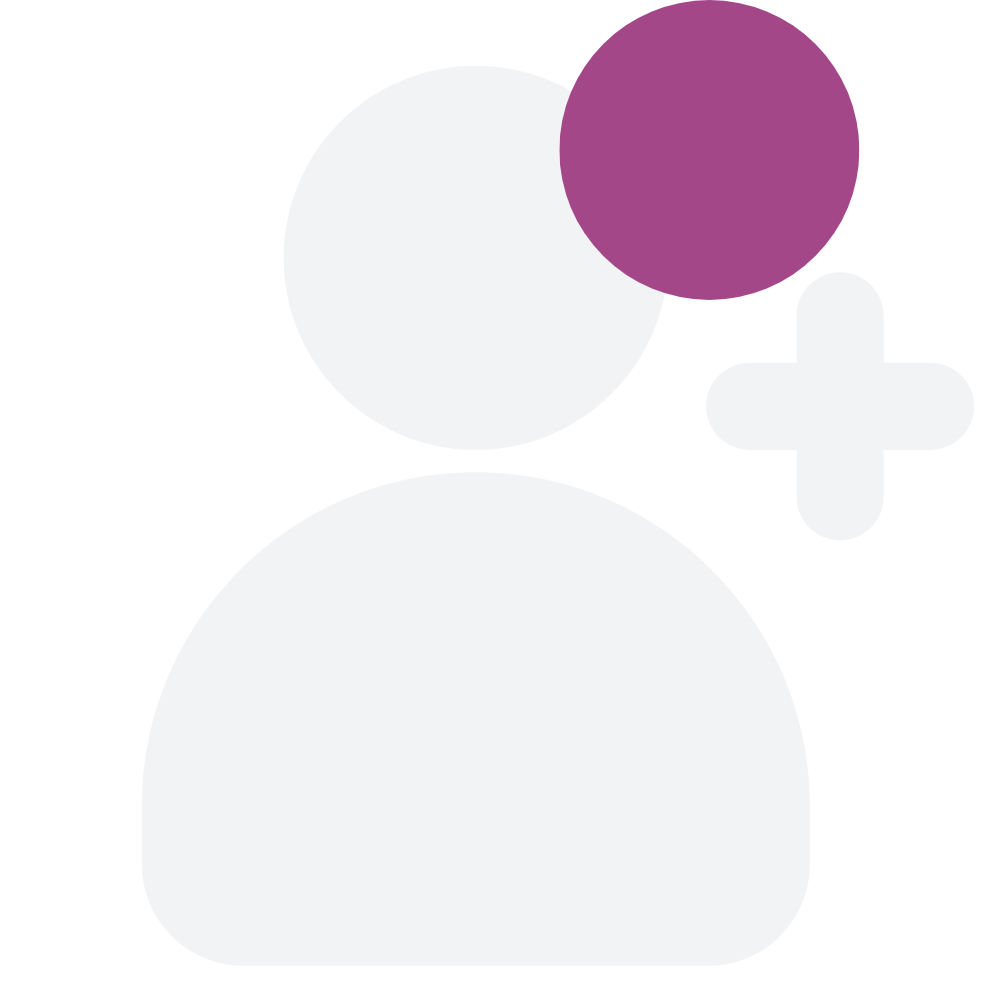
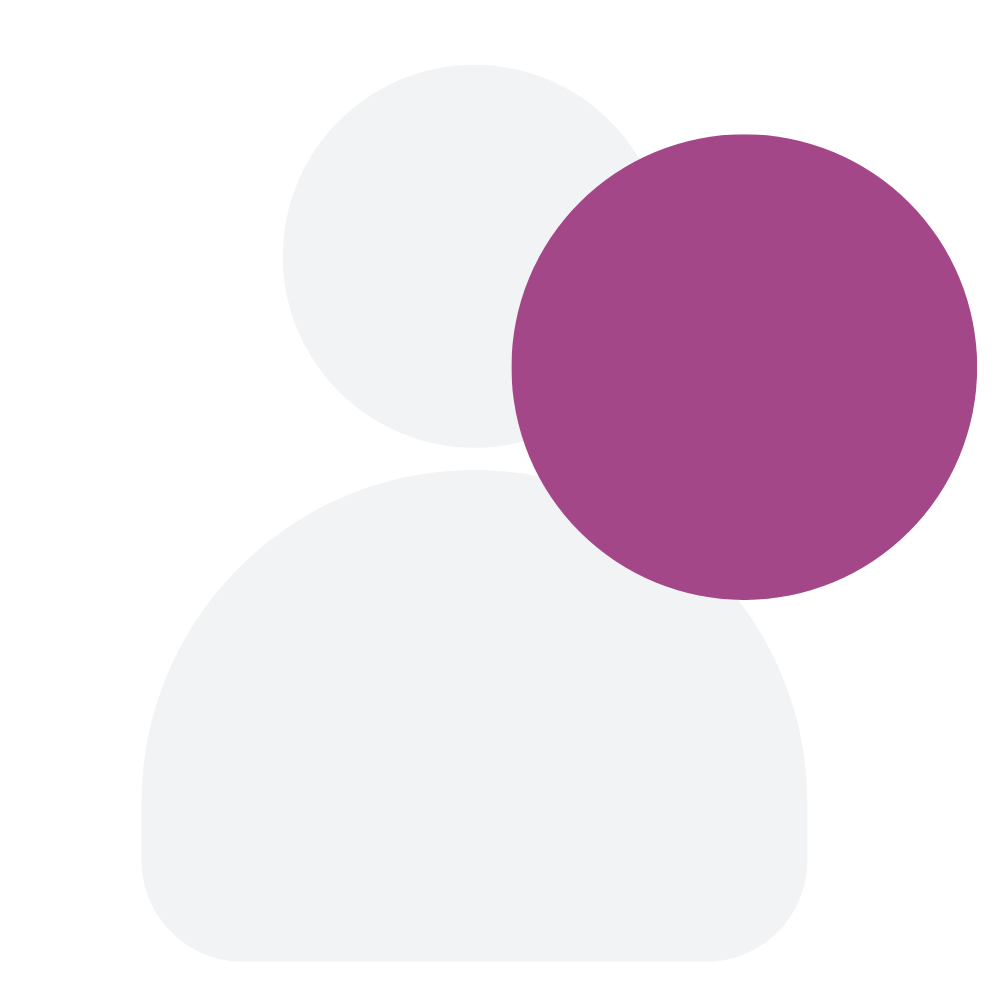
Added friend request notifications

Changed region(s): [[0.496, 0.0, 0.992, 0.62]]

diff --git a/Chatty-macOS/src/Pages/styles.css b/Chatty-macOS/src/Pages/styles.css
@@ -4,12 +4,10 @@
 }
 
 ::-webkit-scrollbar {
-  width: 21px;
-  margin: 5rem;
+  width: 0.3rem;
 }
 /* Style the scrollbar thumb */
 ::-webkit-scrollbar-thumb {
-  background-color: #ccc;
   border-radius: 5px;
 }
 
@@ -57,7 +55,7 @@ html, body{
   margin-top: 0.5rem;
   text-align: center;
   display: grid;
-  grid-template-columns: 30% 70%;
+  grid-template-columns: 29.5% 68.5%;
   grid-template-rows: 87%;
   column-gap: 1rem;
   overflow-y: hidden;
@@ -112,6 +110,13 @@ html, body{
 }
 
 #friend-button-image{
+  width: 1.5rem;
+  background-color: transparent;
+  height: 1.5rem;
+  border: none;
+}
+
+#friend-button-image-new{
   width: 1.5rem;
   background-color: transparent;
   height: 1.5rem;
@@ -226,6 +231,8 @@ html, body{
   cursor: text;
 }
 
+
+
 #input-wrapper {
   width: 100%;
   border-radius: 6px;
@@ -234,10 +241,6 @@ html, body{
   text-align: start;
   position: absolute;
   bottom: 1rem;
-  background-image: url('../Images/send-message.png');
-  background-position: center right 0.5rem;
-  background-size: 22px;
-  background-repeat: no-repeat;
   font-family: CustomRegular, sans-serif;
   font-size: 18px;
   font-weight: 600;
@@ -246,8 +249,11 @@ html, body{
   outline: none;
   z-index: 1;
   -webkit-app-region: no-drag;
+  display: grid;
+  grid-template-columns: 87% 7% 10%;
   margin-right: 10px;
   margin-top: 1rem;
+  align-items: center;
   border-style: inset;
 }
 
@@ -378,11 +384,11 @@ html, body{
 #side-menu{
   text-align: center;
   width: 100%;
-  -webkit-app-region: drag;
 }
 
-
-#side-menu:hover{
+#side-menu-content{
+  overflow-y: auto;
+  height: 92%;
 }
 
 .logo{
@@ -595,6 +601,28 @@ html, body{
   margin-top: -0.8rem;
 }
 
+#emoji-button{
+  max-height: 30px;
+  height: 2rem;
+  width: 2rem;
+  background-image: url(../Images/emoji-icon-color.png);
+  background-position: center;
+  background-size: 25px;
+  background-repeat: no-repeat;
+  background-color: transparent;
+}
+
+#send-button{
+  max-height: 30px;
+  height: 2rem;
+  width: 2rem;
+  background-image: url(../Images/send-message.png);
+  background-position: center;
+  background-size: 22px;
+  background-repeat: no-repeat;
+  background-color: transparent;
+}
+
 @media (prefers-color-scheme: dark) {
   body, .chat-bar, .setting-body {background: #333; color: white; }
   .custom-button , .setting-separator{background-color: #494949; color: white;}
@@ -605,10 +633,13 @@ html, body{
   .theme-toggle, #login-theme-toggle{ background-image: url(../Images/Sun.png); background-size: contain; width: 20px;
     height: 20px; background-repeat: no-repeat;}
   #friend-button-image{content: url("../Images/add-friend-button-dark.png")}
+  #friend-button-image-new{content: url("../Images/add-friend-button-dark-badged.png")}
   .lobby-body{  background: linear-gradient(to right, #494949 30%, #333 0%);}
-  .friend-button:hover, .unread-button:hover, #friend-button-search:hover, .profile:hover, .setting-button:hover, .feed-message-background{background-color: #3A3A3AB2;}
+  .friend-button:hover, .unread-button:hover, #friend-button-search:hover, .profile:hover, .setting-button:hover, #emoji-button:hover, #send-button:hover, .feed-message-background{background-color: #3A3A3AB2;}
   .friend-button, .unread-button, .setting-button, .feed-user-button, #self-user{color: #f2f3f5;}
   .feed-message{color: #dcdee1}
+  ::-webkit-scrollbar-thumb{background-color: rgba(108, 108, 108, 0.7)
+  }
   .friend-status, .feed-date, .chat-date, .chat-hour{color: #b6b6b6;}
   #visitedButton{background-color: #3A3A3AB2; color: white;}
 }
@@ -623,10 +654,11 @@ html, body{
   .theme-toggle, #login-theme-toggle{ background-image: url(../Images/Moon_light.png); background-size: contain; width: 20px;
     height: 20px; background-repeat: no-repeat;}
   #friend-button-image{content: url("../Images/add-friend-button-light.png")}
+  #friend-button-image-new{content: url("../Images/add-friend-button-light-badged.png")}
   .lobby-body{background: linear-gradient(to right, #dadada 30%, #E9E8E8 0%)}
   #feed-input, #input-wrapper, #send-feed-button, .feed-message-background{background-color: #dadada; border-color: #dadada;}
-  .friend-button:hover, .unread-button:hover,  #friend-button-search:hover, .profile:hover, .setting-button:hover, .setting-separator {background-color: #c4c4c4;}
+  .friend-button:hover, .unread-button:hover,  #friend-button-search:hover, .profile:hover, .setting-button:hover, .setting-separator, #emoji-button:hover, #send-button:hover {background-color: #c4c4c4;}
   .friend-button, .unread-button, .setting-button{color: #363636;}
   .friend-status, .feed-date, .chat-date, .chat-hour, #chat-status{color: #696969;}
-  #visitedButton{background-color: #adadad; color: #363636;}
+  #visitedButton, ::-webkit-scrollbar-thumb{background-color: #adadad; color: #363636;}
 }

diff --git a/Chatty-macOS/src/preload.js b/Chatty-macOS/src/preload.js
@@ -1,4 +1,6 @@
 const { contextBridge, ipcRenderer } = require('electron');
+
+
 ipcRenderer.on('message', (event, text, from)=>{
     let today = new Date
     let time = today.getHours() + ":" + today.getMinutes()
@@ -125,7 +127,7 @@ contextBridge.exposeInMainWorld('appends', {
             body: JSON.stringify({}),
         });
 
-        const respondeUnreads = await fetch(`http://localhost:3000/request-unreads?token=${localStorage.getItem('token')}`, {
+        const responseUnreads = await fetch(`http://localhost:3000/request-unreads?token=${localStorage.getItem('token')}`, {
             method: 'POST',
             headers: {
                 'Content-Type': 'application/json',
@@ -139,8 +141,8 @@ contextBridge.exposeInMainWorld('appends', {
         if (response.ok) {
             const data = await response.json();
             let unreads;
-            if (respondeUnreads.ok){
-                const dataUnreads = await respondeUnreads.json();
+            if (responseUnreads.ok){
+                const dataUnreads = await responseUnreads.json();
                 unreads = dataUnreads.unreads;
                 console.log(unreads)
             }
@@ -204,6 +206,23 @@ contextBridge.exposeInMainWorld('appends', {
                         friendButton.role = "button"
                     }
                 }
+            }
+        }
+    },
+    async refreshFriendsList() {
+        const response = await fetch(`http://localhost:3000/request-friend-requests?token=${localStorage.getItem('token')}`, {
+            method: 'POST',
+            headers: {
+                'Content-Type': 'application/json',
+            },
+            body: JSON.stringify({}),
+        });
+        if (response.ok) {
+            const data = await response.json();
+            const requestsFriends = data.requestsFriends;
+            console.log(data.requestsFriends)
+            if (requestsFriends.length > 0) {
+                document.getElementById('friend-button-image').id = 'friend-button-image-new'
             }
         }
     }

diff --git a/Chatty-macOS/src/Pages/Main/main.html b/Chatty-macOS/src/Pages/Main/main.html
@@ -30,8 +30,9 @@
   </div>
     <div class="feed-fields">
         <div id="input-wrapper">
-          <div id="input" contentEditable placeholder="What's happening?"
-               oninput="if(this.innerHTML.trim()==='<br>')this.innerHTML=''"></div>
+          <div id="input" contentEditable placeholder="What's happening?" oninput="if(this.innerHTML.trim()==='<br>')this.innerHTML=''"></div>
+          <button id="emoji-button" class="custom-button"><emoji-picker></emoji-picker></button>
+          <button id="send-button" class="custom-button"></button>
         </div>
     </div>
   </body>

diff --git a/Chatty-macOS/src/Pages/Friends/friends.html b/Chatty-macOS/src/Pages/Friends/friends.html
@@ -34,7 +34,7 @@
     <button id="add-friend-button"><img src="../../Images/add-friend-button-light.png" id="friend-button-image"> </button>
   </div>
     <div class="feed-fields">
-      <input class="custom-input" type="text" id="feed-input" placeholder="Search for a friend!">
+      <input class="custom-input" input="text" id="feed-input" placeholder="Search for a friend!">
     </div>
   </body>
   <script src="../../renderer.js"></script>

diff --git a/Chatty-macOS/src/app.js b/Chatty-macOS/src/app.js
@@ -14,8 +14,8 @@ if (require('electron-squirrel-startup')) {
 const createWindow = () => {
   // Create the browser window.
   const mainWindow = new BrowserWindow({
-    width: 900,
-    height: 600,
+    width: 930,
+    height: 650,
     titleBarStyle: 'hidden',
     icon: path.join(__dirname, 'src/Images/icon.png'),
     webPreferences: {

diff --git a/Chatty-macOS/src/Pages/Chat/chat_scripts.js b/Chatty-macOS/src/Pages/Chat/chat_scripts.js
@@ -51,6 +51,7 @@ window.onload = async function () {
         body: JSON.stringify({friend}),
     });
     await window.appends.appendFriendList('chat')
+    await window.appends.refreshFriendsList()
 }
 
 function applyMessage(text, username, hour){

diff --git a/Chatty-macOS/src/Pages/Main/main_scripts.js b/Chatty-macOS/src/Pages/Main/main_scripts.js
@@ -26,6 +26,7 @@ window.onload = async function () {
              }
      }
     await window.appends.appendFriendList()
+    await window.appends.refreshFriendsList()
 }
 
  async function applyFeed(message, date, username) {

diff --git a/Chatty-macOS/src/Pages/Friends/friends_scripts.js b/Chatty-macOS/src/Pages/Friends/friends_scripts.js
@@ -65,6 +65,7 @@ window.onload = async function () {
         }
     }
     await window.appends.appendFriendList()
+    await window.appends.refreshFriendsList()
 }
 
 async function searchFriends(requestedFriend) {
